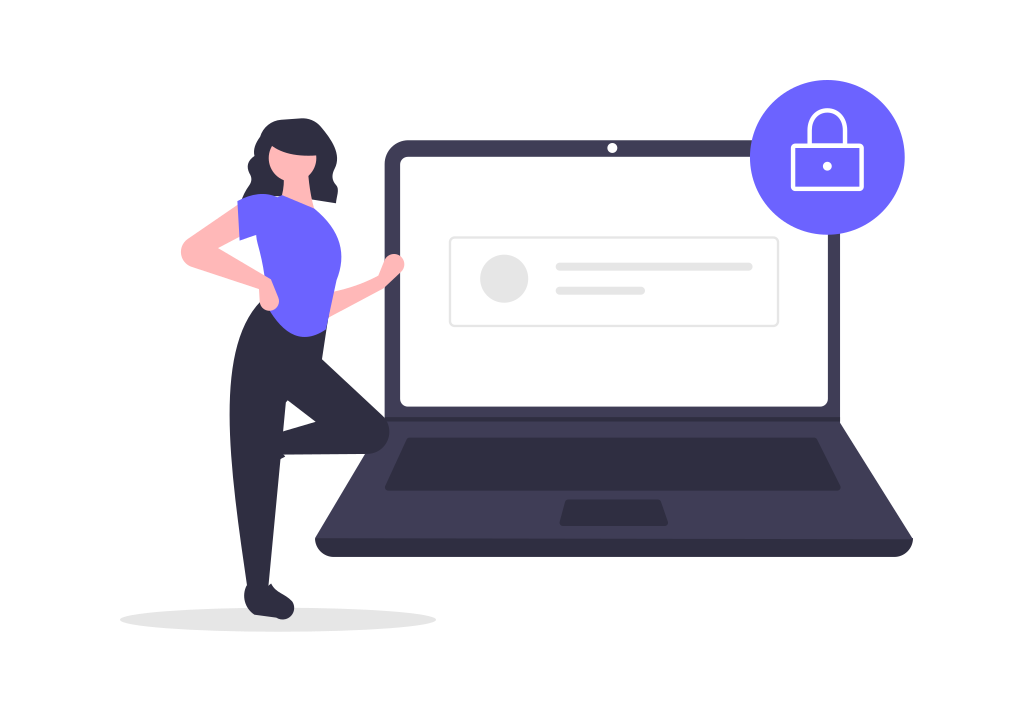
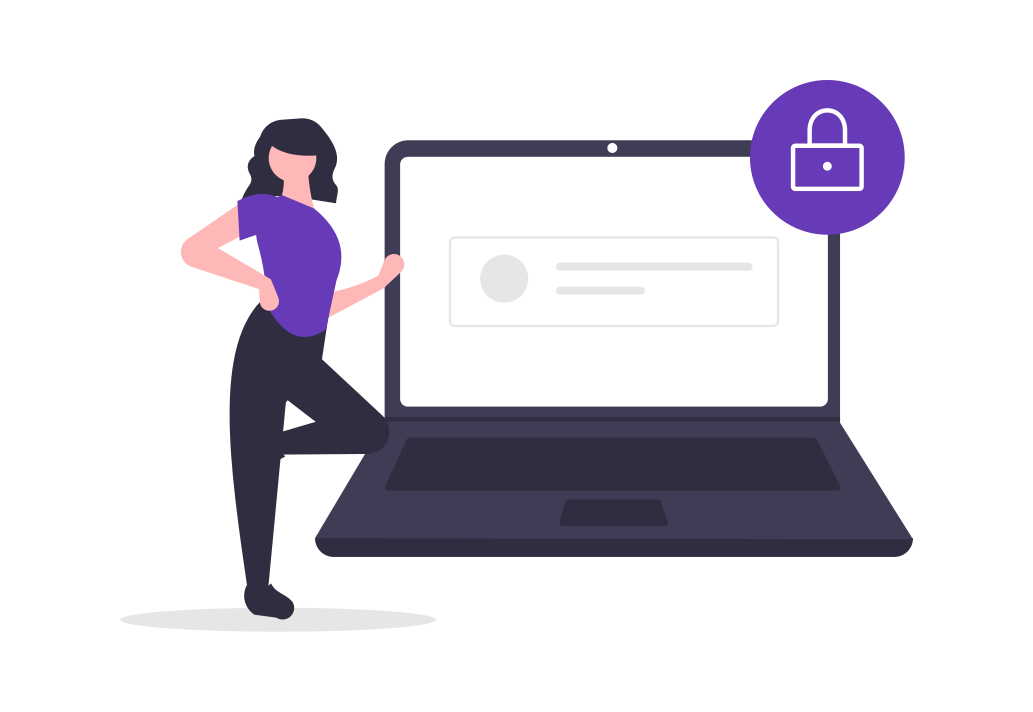
Login Ui modified.

Changed region(s): [[0.7125, 0.0927, 0.8984, 0.3399], [0.2168, 0.2472, 0.3408, 0.4944]]

diff --git a/frontend/leadApp/src/app/login/login.component.html b/frontend/leadApp/src/app/login/login.component.html
@@ -34,12 +34,12 @@
                 </mat-form-field>
               </p>
               <p>
-                <mat-card-subtitle class="text-center">
+                <mat-card-subtitle class="text-center" color="primary">
                   <a href="">Forgot Password?</a>
                 </mat-card-subtitle>
               </p>
                 <div class="button my-4">
-                  <button type="submit" mat-stroked-button color="primary">Login</button>
+                  <button type="submit" mat-raised-button color="primary">SIGN IN</button>
                 </div>
             </form>
           </mat-card-content>

diff --git a/frontend/leadApp/src/app/app.component.html b/frontend/leadApp/src/app/app.component.html
@@ -11,4 +11,14 @@
         </div>
     </div>
     <router-outlet></router-outlet>
+    <footer>
+        <div class="container text-center">
+            <hr>
+            <p>&copy; iNurture Education Solution Pvt. Ltd.</p>
+            <p>Niton Compound, # 11/4 A, Block – B1, Palace Road, Vasanthnagar, Bangalore – 560052</p>
+            <p>Tel: +91-80-4257-6666,
+               Email: admission@inurture.co.in
+            </p>
+        </div>
+    </footer>
 </div>

diff --git a/frontend/leadApp/src/app/login/login.component.css b/frontend/leadApp/src/app/login/login.component.css
@@ -22,3 +22,7 @@
     display: flex;
     justify-content: flex-end;
   }
+
+  button{
+    width: 100%;
+  }
